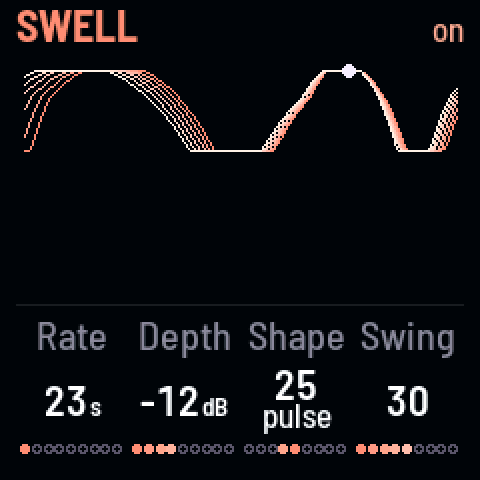
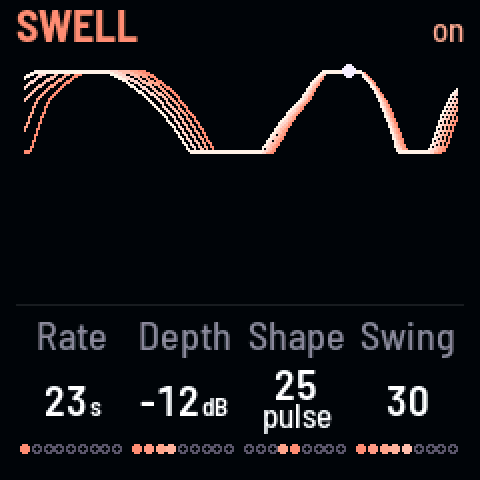
Swell: the strands 2 px, five of them, as every page's (Evan, 2026-11-07: they were six of 1 px, thinner and rougher than the rest); the fan as before

diff --git a/firmware/src/app/look.c b/firmware/src/app/look.c
@@ -1427,11 +1427,13 @@ static void lk_pic_mods(void)
 
 /* ------------------------------------------------------ the Swell's picture --- */
 /* a bar of the Swell, its two breaths as the engine shapes them (dr_pulse_wave: the first longer with Swing), the level
- * down the picture in dB (the top full, the bottom -30 dB or silence: the dip is the Depth). Six 1 px strands in the
+ * down the picture in dB (the top full, the bottom -30 dB or silence: the dip is the Depth). Five 2 px strands in the
  * Swell's coral ramp: the breath just before and after the dot, meeting at the dot and fanning out with distance from
  * it, the fan 0.09 / (1 + 2.2 Hz) of a bar (wide when slow, nearly one line when fast, so it doesn't blur); a white dot
  * where the Swell is now. Off: one gray line, still, no dot (the spec, 2026-10-31; the board, ARP 262:4) */
 #define LK_SW_N 109                            /* 2 px a point: x 12 .. 228 */
+#define LK_SW_S 5                              /* strands, 2 px as on every page (Evan, 2026-11-07: they were 1 px,
+                                                * thinner and rougher than the rest; five, as Drones 2) */
 static int16_t lk_swell_y(float ph, int32_t top, int32_t h)
 {
     const float g = fm_maxf(dr_pulse_wave(ph), 1e-4f), db = fm_log2f(g) * 6.0206f;
@@ -1444,15 +1446,14 @@ static void lk_pic_swell(void)
     const int32_t x0 = 12, top = 7, h = 100;
     int16_t y[LK_SW_N];
     int s, i;
-    for (s = on ? 0 : 5; s < 6; s++) {         /* the coral one at the back, the cream one in front */
-        const float o = ((float)s - 2.5f) * (1.0f / 2.5f);
-        const uint16_t c = on ? lk_mix(0xFF8F73u, 0xFFF0E6u, (float)s / 5.0f) : LK_UNLIT;
+    for (s = on ? 0 : LK_SW_S - 1; s < LK_SW_S; s++) {   /* the coral one at the back, the cream one in front */
+        const float o = ((float)s - 0.5f * (LK_SW_S - 1)) * (2.0f / (LK_SW_S - 1));
+        const uint16_t c = on ? lk_mix(0xFF8F73u, 0xFFF0E6u, (float)s / (float)(LK_SW_S - 1)) : LK_UNLIT;
         for (i = 0; i < LK_SW_N; i++) {
             const float p = 2.0f * (float)i / (float)(LK_SW_N - 1);
             y[i] = lk_swell_y(on ? p + o * fan * fm_fabsf(p - dot) * 0.5f : p, top, h);
         }
-        for (i = 1; i < LK_SW_N; i++)
-            cv_line(x0 + 2 * (i - 1), y[i - 1], x0 + 2 * i, y[i], c);
+        lk_plot(x0, y, LK_SW_N, c);
     }
     if (on) {
         const int32_t px = x0 + (int32_t)(dot * (float)(LK_SW_N - 1) + 0.5f), py = lk_swell_y(dot, top, h);

diff --git a/docs/decisions.md b/docs/decisions.md
@@ -587,6 +587,8 @@ at the end. The current state is in the [README](../README.md) and the code.
   the rate, the Swell lock; "movement 0%" when Movement grays every route. The same keys on both LFO pages; no banner
   for a key whose change the page shows (the routes on LFO sends, the delay's LFO and cross-mod on Mods). The key
   order stays (D#4 the reset between the drones).
+- 2026-11-07: the Swell's strands 2 px, five of them (were six of 1 px: thinner and rougher than every other page's);
+  the fan as before, meeting at the dot.
 - 2026-11-07: LFO sends: the LFOs above the routes, I over II (on one row the longest names ran into the rate), their
   waves in one column, 13 px tall and 54 long (were 9 and 24); the rate right of LFO I, the lock right of LFO II;
   locked with the Swell stopped, "on Swell" dimmed (was "waits Swell", too wide beside the waves); "mvmt 0%" in the

diff --git a/README.md b/README.md
@@ -385,7 +385,7 @@ pink specks are as many as Color says.
 
 - Tap ARP for this page; tap it again here to start or stop the Swell (the header says **on**, or **off · tap ARP**).
   The picture shows a bar of it, its two breaths, the level falling down the picture in dB (the dip is the Depth), as
-  six strands that meet at a dot where the Swell is now: wide when it's slow, nearly one line when it's fast. **Shape**
+  five strands that meet at a dot where the Swell is now: wide when it's slow, nearly one line when it's fast. **Shape**
   shows its number with its kind under it (gate, pulse, even, ramp).
 - **The Swell** runs from a 33-second breath to a buzz (the starting sound has it on: a slow breath, 40 deep).
 - **Depth** is how far it dips, in dB (down to −30; all the way, silence). **Shape** runs both ways from the
